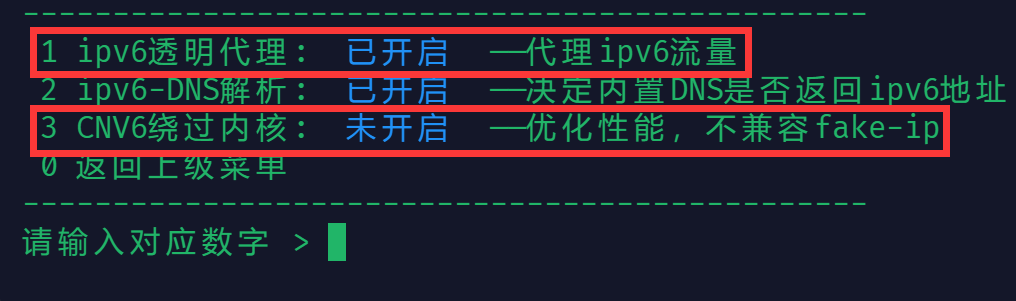
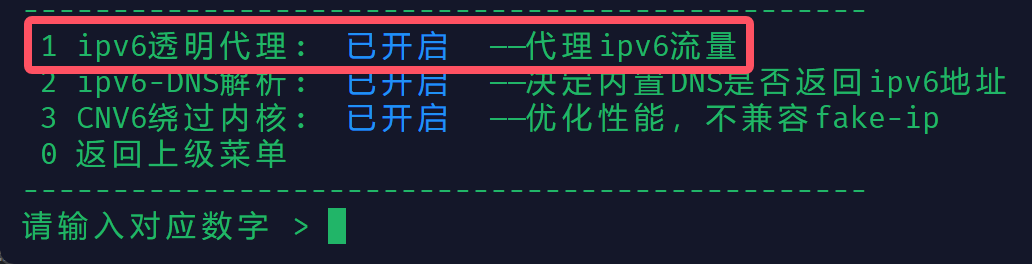
跟随 ShellCrash 新版默认开启绕过 cnip

Changed region(s): [[0.0, 0.0303, 1.0, 0.6364], [0.0, 0.6667, 0.8543, 0.9394], [0.0, 0.9697, 0.0305, 1.0]]

diff --git a/_posts/2024-08-21-share-shellcrashadguardhome-mihomo-ruleset.md b/_posts/2024-08-21-share-shellcrashadguardhome-mihomo-ruleset.md
@@ -277,16 +277,12 @@ dns:
 
 ## 五、 ShellCrash 设置
 1. 设置可参考《[ShellCrash 搭载 mihomo 内核的配置-ruleset 方案](https://proxy-tutorials.dustinwin.top/posts/toolsettings-shellcrash-mihomo-ruleset)》，此处只列举配置的不同之处
-2. 进入主菜单 → 2 内核功能设置，设置如下：  
-<img src="/assets/img/share/tproxy-mix-cnip.png" alt="ShellCrash 设置 1" width="60%" />
-
-3. 进入主菜单 → 2 内核功能设置 → 1 切换防火墙运行模式 → 9 ipv6 设置，开启 3 CNV6 绕过内核
-4. 进入主菜单 → 2 内核功能设置 → 2 切换 DNS 运行模式 → 4 DNS 进阶设置，设置如下：  
+2. 进入主菜单 → 2 内核功能设置 → 2 切换 DNS 运行模式 → 4 DNS 进阶设置，设置如下：  
 <img src="/assets/img/share/close-dns-null.png" alt="ShellCrash 设置 2" width="60%" />
 
-5. 进入主菜单 → 7 内核进阶设置，不要启用 4 启用域名嗅探（因 user.yaml 文件中已添加 `dns.sniffer` 配置项）
-6. 进入主菜单 → 7 内核进阶设置 → 5 自定义端口及秘钥，设置为 `9090`
-7. 进入主菜单 → 6 导入配置文件 → 2 在线获取完整配置文件，粘贴《[一](https://proxy-tutorials.dustinwin.top/posts/share-shellcrashadguardhome-mihomo-ruleset/#%E4%B8%80-%E7%94%9F%E6%88%90%E9%85%8D%E7%BD%AE%E6%96%87%E4%BB%B6-yaml-%E6%96%87%E4%BB%B6%E7%9B%B4%E9%93%BE)》中生成的配置文件 .yaml 文件直链，启动服务即可
+3. 进入主菜单 → 7 内核进阶设置，不要启用 4 启用域名嗅探（因 user.yaml 文件中已添加 `dns.sniffer` 配置项）
+4. 进入主菜单 → 7 内核进阶设置 → 5 自定义端口及秘钥，设置为 `9090`
+5. 进入主菜单 → 6 导入配置文件 → 2 在线获取完整配置文件，粘贴《[一](https://proxy-tutorials.dustinwin.top/posts/share-shellcrashadguardhome-mihomo-ruleset/#%E4%B8%80-%E7%94%9F%E6%88%90%E9%85%8D%E7%BD%AE%E6%96%87%E4%BB%B6-yaml-%E6%96%87%E4%BB%B6%E7%9B%B4%E9%93%BE)》中生成的配置文件 .yaml 文件直链，启动服务即可
 
 ## 六、 安装 AdGuard Home
 1. 连接 SSH 后执行如下命令：

diff --git a/_posts/2024-08-21-share-shellcrash-mihomo-geodata.md b/_posts/2024-08-21-share-shellcrash-mihomo-geodata.md
@@ -181,15 +181,12 @@ dns:
 
 ## 六、 设置部分
 1. 设置可参考《[ShellCrash 搭载 mihomo 内核的配置-geodata 方案](https://proxy-tutorials.dustinwin.top/posts/toolsettings-shellcrash-mihomo-geodata)》，此处只列举配置的不同之处
-2. 进入主菜单 → 2 内核功能设置，设置如下：  
-<img src="/assets/img/share/tproxy-mix-cnip.png" alt="设置部分 1" width="60%" />
-
-3. 进入主菜单 → 2 内核功能设置 → 2 切换 DNS 运行模式 → 4 DNS 进阶设置，设置如下：  
+2. 进入主菜单 → 2 内核功能设置 → 2 切换 DNS 运行模式 → 4 DNS 进阶设置，设置如下：  
 <img src="/assets/img/share/dns-null.png" alt="设置部分 2" width="60%" />
 
-4. 进入主菜单 → 7 内核进阶设置，不要启用 4 启用域名嗅探（因 user.yaml 文件中已添加 `dns.sniffer` 配置项）
-5. 进入主菜单 → 7 内核进阶设置 → 5 自定义端口及秘钥，设置为 `9090`
-6. 进入主菜单 → 6 导入配置文件 → 2 在线获取完整配置文件，粘贴《[一](https://proxy-tutorials.dustinwin.top/posts/share-shellcrash-mihomo-geodata/#%E4%B8%80-%E7%94%9F%E6%88%90%E9%85%8D%E7%BD%AE%E6%96%87%E4%BB%B6-yaml-%E6%96%87%E4%BB%B6%E7%9B%B4%E9%93%BE)》中生成的配置文件 .yaml 文件直链，启动服务即可
+3. 进入主菜单 → 7 内核进阶设置，不要启用 4 启用域名嗅探（因 user.yaml 文件中已添加 `dns.sniffer` 配置项）
+4. 进入主菜单 → 7 内核进阶设置 → 5 自定义端口及秘钥，设置为 `9090`
+5. 进入主菜单 → 6 导入配置文件 → 2 在线获取完整配置文件，粘贴《[一](https://proxy-tutorials.dustinwin.top/posts/share-shellcrash-mihomo-geodata/#%E4%B8%80-%E7%94%9F%E6%88%90%E9%85%8D%E7%BD%AE%E6%96%87%E4%BB%B6-yaml-%E6%96%87%E4%BB%B6%E7%9B%B4%E9%93%BE)》中生成的配置文件 .yaml 文件直链，启动服务即可
 
 ## 七、 访问 Dashboard 面板
 打开 <http://miwifi.com:9090/ui/> 后，“主机”输入 `192.168.31.1`，点击“提交”即可访问 Dashboard 面板  

diff --git a/_posts/2024-08-21-share-shellcrash-mihomo-ruleset.md b/_posts/2024-08-21-share-shellcrash-mihomo-ruleset.md
@@ -277,15 +277,12 @@ dns:
 
 ## 五、 设置部分
 1. 设置可参考《[ShellCrash 搭载 mihomo 内核的配置-ruleset 方案](https://proxy-tutorials.dustinwin.top/posts/toolsettings-shellcrash-mihomo-ruleset)》，此处只列举配置的不同之处
-2. 进入主菜单 → 2 内核功能设置，设置如下：  
-<img src="/assets/img/share/tproxy-mix-cnip.png" alt="设置部分 1" width="60%" />
-
-3. 进入主菜单 → 2 内核功能设置 → 2 切换 DNS 运行模式 → 4 DNS 进阶设置，设置如下：  
+2. 进入主菜单 → 2 内核功能设置 → 2 切换 DNS 运行模式 → 4 DNS 进阶设置，设置如下：  
 <img src="/assets/img/share/dns-null.png" alt="设置部分 2" width="60%" />
 
-4. 进入主菜单 → 7 内核进阶设置，不要启用 4 启用域名嗅探（因 user.yaml 文件中已添加 `dns.sniffer` 配置项）
-5. 进入主菜单 → 7 内核进阶设置 → 5 自定义端口及秘钥，设置为 `9090`
-6. 进入主菜单 → 6 导入配置文件 → 2 在线获取完整配置文件，粘贴《[一](https://proxy-tutorials.dustinwin.top/posts/share-shellcrash-mihomo-ruleset/#%E4%B8%80-%E7%94%9F%E6%88%90%E9%85%8D%E7%BD%AE%E6%96%87%E4%BB%B6-yaml-%E6%96%87%E4%BB%B6%E7%9B%B4%E9%93%BE)》中生成的配置文件 .yaml 文件直链，启动服务即可
+3. 进入主菜单 → 7 内核进阶设置，不要启用 4 启用域名嗅探（因 user.yaml 文件中已添加 `dns.sniffer` 配置项）
+4. 进入主菜单 → 7 内核进阶设置 → 5 自定义端口及秘钥，设置为 `9090`
+5. 进入主菜单 → 6 导入配置文件 → 2 在线获取完整配置文件，粘贴《[一](https://proxy-tutorials.dustinwin.top/posts/share-shellcrash-mihomo-ruleset/#%E4%B8%80-%E7%94%9F%E6%88%90%E9%85%8D%E7%BD%AE%E6%96%87%E4%BB%B6-yaml-%E6%96%87%E4%BB%B6%E7%9B%B4%E9%93%BE)》中生成的配置文件 .yaml 文件直链，启动服务即可
 
 ## 六、 访问 Dashboard 面板
 打开 <http://miwifi.com:9090/ui/> 后，“主机”输入 `192.168.31.1`，点击“提交”即可访问 Dashboard 面板  

diff --git a/_posts/2024-08-22-share-shellcrashadguardhome-singboxp-ruleset.md b/_posts/2024-08-22-share-shellcrashadguardhome-singboxp-ruleset.md
@@ -300,15 +300,11 @@ crash
 
 ## 七、 ShellCrash 设置
 1. 设置可参考《[ShellCrash 搭载 sing-boxp 内核的配置-ruleset 方案](https://proxy-tutorials.dustinwin.top/posts/toolsettings-shellcrash-singboxp-ruleset)》，此处只列举配置的不同之处
-2. 进入主菜单 → 2 内核功能设置，设置如下：  
-<img src="/assets/img/share/tproxy-mix-cnip.png" alt="设置部分 1" width="60%" />
-
-3. 进入主菜单 → 2 内核功能设置 → 1 切换防火墙运行模式 → 9 ipv6 设置，开启 3 CNV6 绕过内核
-4. 进入主菜单 → 2 内核功能设置 → 2 切换 DNS 运行模式 → 4 DNS 进阶设置，设置如下：  
+2. 进入主菜单 → 2 内核功能设置 → 2 切换 DNS 运行模式 → 4 DNS 进阶设置，设置如下：  
 <img src="/assets/img/share/close-dns-null.png" alt="设置部分 2" width="60%" />
 
-5. 进入主菜单 → 7 内核进阶设置 → 5 自定义端口及秘钥，设置为 `9090`
-6. 进入主菜单 → 6 导入配置文件 → 2 在线获取完整配置文件，粘贴《[一](https://proxy-tutorials.dustinwin.top/posts/share-shellcrashadguardhome-singboxp-ruleset/#%E4%B8%80-%E7%94%9F%E6%88%90%E9%85%8D%E7%BD%AE%E6%96%87%E4%BB%B6-json-%E6%96%87%E4%BB%B6%E7%9B%B4%E9%93%BE)》中生成的配置文件 .json 文件直链，启动服务即可
+3. 进入主菜单 → 7 内核进阶设置 → 5 自定义端口及秘钥，设置为 `9090`
+4. 进入主菜单 → 6 导入配置文件 → 2 在线获取完整配置文件，粘贴《[一](https://proxy-tutorials.dustinwin.top/posts/share-shellcrashadguardhome-singboxp-ruleset/#%E4%B8%80-%E7%94%9F%E6%88%90%E9%85%8D%E7%BD%AE%E6%96%87%E4%BB%B6-json-%E6%96%87%E4%BB%B6%E7%9B%B4%E9%93%BE)》中生成的配置文件 .json 文件直链，启动服务即可
 
 ## 八、 安装 AdGuard Home
 1. 连接 SSH 后执行如下命令：

diff --git a/_posts/2024-08-22-share-shellcrash-singboxp-geodata.md b/_posts/2024-08-22-share-shellcrash-singboxp-geodata.md
@@ -219,14 +219,11 @@ curl -o $CRASHDIR/geoip.db -L https://cdn.jsdelivr.net/gh/DustinWin/ruleset_geod
 
 ## 八、 设置部分
 1. 设置可参考《[ShellCrash 搭载 sing-boxp 内核的配置-geodata 方案](https://proxy-tutorials.dustinwin.top/posts/toolsettings-shellcrash-singboxp-geodata)》，此处只列举配置的不同之处
-2. 进入主菜单 → 2 内核功能设置，设置如下：  
-<img src="/assets/img/share/tproxy-mix-cnip.png" alt="设置部分 1" width="60%" />
-
-3. 返回到 2 切换 DNS 运行模式，进入 4 DNS 进阶设置，设置如下：  
+2. 返回到 2 切换 DNS 运行模式，进入 4 DNS 进阶设置，设置如下：  
 <img src="/assets/img/share/dns-null.png" alt="设置部分 2" width="60%" />
 
-4. 进入主菜单 → 7 内核进阶设置 → 5 自定义端口及秘钥，设置为 `9090`
-5. 进入主菜单 → 6 导入配置文件 → 2 在线获取完整配置文件，粘贴《[一](https://proxy-tutorials.dustinwin.top/posts/share-shellcrash-singboxp-geodata/#%E4%B8%80-%E7%94%9F%E6%88%90%E9%85%8D%E7%BD%AE%E6%96%87%E4%BB%B6-json-%E6%96%87%E4%BB%B6%E7%9B%B4%E9%93%BE)》中生成的配置文件 .json 文件直链，启动服务即可
+3. 进入主菜单 → 7 内核进阶设置 → 5 自定义端口及秘钥，设置为 `9090`
+4. 进入主菜单 → 6 导入配置文件 → 2 在线获取完整配置文件，粘贴《[一](https://proxy-tutorials.dustinwin.top/posts/share-shellcrash-singboxp-geodata/#%E4%B8%80-%E7%94%9F%E6%88%90%E9%85%8D%E7%BD%AE%E6%96%87%E4%BB%B6-json-%E6%96%87%E4%BB%B6%E7%9B%B4%E9%93%BE)》中生成的配置文件 .json 文件直链，启动服务即可
 
 ## 九、 访问 Dashboard 面板
 打开 <http://miwifi.com:9090/ui/> 后，“主机”输入 `192.168.31.1`，点击“提交”即可访问 Dashboard 面板  

diff --git a/_posts/2024-08-22-share-shellcrash-singboxp-ruleset.md b/_posts/2024-08-22-share-shellcrash-singboxp-ruleset.md
@@ -302,14 +302,11 @@ crash
 
 ## 七、 设置部分
 1. 设置可参考《[ShellCrash 搭载 sing-boxp 内核的配置-ruleset 方案](https://proxy-tutorials.dustinwin.top/posts/toolsettings-shellcrash-singboxp-ruleset)》，此处只列举配置的不同之处
-2. 进入主菜单 → 2 内核功能设置，设置如下：  
-<img src="/assets/img/share/tproxy-mix-cnip.png" alt="设置部分 1" width="60%" />
-
-3. 返回到 2 切换 DNS 运行模式，进入 4 DNS 进阶设置，设置如下：  
+2. 返回到 2 切换 DNS 运行模式，进入 4 DNS 进阶设置，设置如下：  
 <img src="/assets/img/share/dns-null.png" alt="设置部分 2" width="60%" />
 
-4. 进入主菜单 → 7 内核进阶设置 → 5 自定义端口及秘钥，设置为 `9090`
-5. 进入主菜单 → 6 导入配置文件 → 2 在线获取完整配置文件，粘贴《[一](https://proxy-tutorials.dustinwin.top/posts/share-shellcrash-singboxp-ruleset/#%E4%B8%80-%E7%94%9F%E6%88%90%E9%85%8D%E7%BD%AE%E6%96%87%E4%BB%B6-json-%E6%96%87%E4%BB%B6%E7%9B%B4%E9%93%BE)》中生成的配置文件 .json 文件直链，启动服务即可
+3. 进入主菜单 → 7 内核进阶设置 → 5 自定义端口及秘钥，设置为 `9090`
+4. 进入主菜单 → 6 导入配置文件 → 2 在线获取完整配置文件，粘贴《[一](https://proxy-tutorials.dustinwin.top/posts/share-shellcrash-singboxp-ruleset/#%E4%B8%80-%E7%94%9F%E6%88%90%E9%85%8D%E7%BD%AE%E6%96%87%E4%BB%B6-json-%E6%96%87%E4%BB%B6%E7%9B%B4%E9%93%BE)》中生成的配置文件 .json 文件直链，启动服务即可
 
 ## 八、 访问 Dashboard 面板
 打开 <http://miwifi.com:9090/ui/> 后，“主机”输入 `192.168.31.1`，点击“提交”即可访问 Dashboard 面板  

diff --git a/_posts/2024-08-21-toolsettings-shellcrash-mihomo-geodata.md b/_posts/2024-08-21-toolsettings-shellcrash-mihomo-geodata.md
@@ -60,7 +60,7 @@ curl -o $CRASHDIR/Country.mmdb -L https://cdn.jsdelivr.net/gh/DustinWin/ruleset_
 3. 进入主菜单 → 9 更新/卸载 → 7 切换安装源及安装版本，选择 b 切换至公测版 → 1 Jsdelivr_CDN源（推荐）
 4. 进入主菜单 → 9 更新/卸载 → 4 安装本地 Dashboard 面板，选择 3 安装 MetaXD 面板（也可跳过此步，直接使用《[五](https://proxy-tutorials.dustinwin.top/posts/toolsettings-shellcrash-mihomo-geodata/#%E4%BA%94-%E5%9C%A8%E7%BA%BF-dashboard-%E9%9D%A2%E6%9D%BF)》中的在线 Dashboard 面板）
 5. 进入主菜单 → 2 内核功能设置，设置如下（有“Tproxy 模式”就选“Tproxy 模式”，否则推荐选“混合模式”，宽带在 300M 内推荐选 Tun 模式）：  
-<img src="/assets/img/tools/tproxy-mix.png" alt="设置部分 1" width="60%" />
+<img src="/assets/img/pin/tproxy-mix.png" alt="设置部分 1" width="60%" />
 
 6. 进入主菜单 → 4 内核启动设置，选择 1 允许 ShellCrash 开机启动（若重启路由器后服务没有自动运行，可“设置自启延时”为 `30` 秒）
 7. 进入主菜单 → 5 配置自动任务 → 1 添加自动任务，可以看到末尾就有《[三](https://proxy-tutorials.dustinwin.top/posts/toolsettings-shellcrash-mihomo-geodata/#%E4%B8%89-%E6%B7%BB%E5%8A%A0%E5%AE%9A%E6%97%B6%E4%BB%BB%E5%8A%A1)》中添加的定时任务，输入对应的数字并回车后可设置执行条件

diff --git a/_posts/2024-08-21-toolsettings-shellcrash-mihomo-ruleset.md b/_posts/2024-08-21-toolsettings-shellcrash-mihomo-ruleset.md
@@ -51,7 +51,7 @@ curl -L https://ghfast.top/https://github.com/DustinWin/proxy-tools/releases/dow
 3. 进入主菜单 → 9 更新/卸载 → 7 切换安装源及安装版本，选择 b 切换至公测版 → 1 Jsdelivr_CDN源（推荐）
 4. 进入主菜单 → 9 更新/卸载 → 4 安装本地 Dashboard 面板，选择 3 安装 MetaXD 面板（也可跳过此步，直接使用《[四](https://proxy-tutorials.dustinwin.top/posts/toolsettings-shellcrash-mihomo-ruleset/#%E5%9B%9B-%E5%9C%A8%E7%BA%BF-dashboard-%E9%9D%A2%E6%9D%BF)》中的在线 Dashboard 面板）
 5. 进入主菜单 → 2 内核功能设置，设置如下（有“Tproxy 模式”就选“Tproxy 模式”，否则推荐选“混合模式”，宽带在 300M 内推荐选 Tun 模式）：  
-<img src="/assets/img/tools/tproxy-mix.png" alt="设置部分 1" width="60%" />
+<img src="/assets/img/pin/tproxy-mix.png" alt="设置部分 1" width="60%" />
 
 6. 进入主菜单 → 4 内核启动设置，选择 1 允许 ShellCrash 开机启动（若重启路由器后服务没有自动运行，可“设置自启延时”为 `30` 秒）
 7. 进入主菜单 → 5 配置自动任务 → 1 添加自动任务，可以看到末尾就有《[二](https://proxy-tutorials.dustinwin.top/posts/toolsettings-shellcrash-mihomo-ruleset/#%E4%BA%8C-%E6%B7%BB%E5%8A%A0%E5%AE%9A%E6%97%B6%E4%BB%BB%E5%8A%A1)》中添加的定时任务，输入对应的数字并回车后可设置执行条件

diff --git a/_posts/2024-08-21-toolsettings-shellcrash-singboxp-geodata.md b/_posts/2024-08-21-toolsettings-shellcrash-singboxp-geodata.md
@@ -60,7 +60,7 @@ curl -o $CRASHDIR/geoip.db -L https://cdn.jsdelivr.net/gh/DustinWin/ruleset_geod
 3. 进入主菜单 → 9 更新/卸载 → 7 切换安装源及安装版本，选择 b 切换至公测版 → 1 Jsdelivr_CDN源（推荐）
 4. 进入主菜单 → 9 更新/卸载 → 4 安装本地 Dashboard 面板，选择 3 安装 MetaXD 面板（也可跳过此步，使用《[五](https://proxy-tutorials.dustinwin.top/posts/toolsettings-shellcrash-singboxp-geodata/#%E4%BA%94-%E5%9C%A8%E7%BA%BF-dashboard-%E9%9D%A2%E6%9D%BF)》中的在线 Dashboard 面板）
 5. 进入主菜单 → 2 内核功能设置，设置如下（有“Tproxy 模式”就选“Tproxy 模式”，否则推荐选“混合模式”，宽带在 300M 内推荐选 Tun 模式）：  
-<img src="/assets/img/tools/tproxy-mix.png" alt="设置部分 1" width="60%" />
+<img src="/assets/img/pin/tproxy-mix.png" alt="设置部分 1" width="60%" />
 
 6. 进入主菜单 → 4 内核启动设置，选择 1 允许 ShellCrash 开机启动（若重启路由器后服务没有自动运行，可“设置自启延时”为 `30` 秒）
 7. 进入主菜单 → 5 配置自动任务 → 1 添加自动任务，可以看到末尾就有《[三](https://proxy-tutorials.dustinwin.top/posts/toolsettings-shellcrash-singboxp-geodata/#%E4%B8%89-%E6%B7%BB%E5%8A%A0%E5%AE%9A%E6%97%B6%E4%BB%BB%E5%8A%A1)》中添加的定时任务，输入对应的数字并回车后可设置执行条件 

diff --git a/_posts/2024-08-22-toolsettings-shellcrash-singboxp-ruleset.md b/_posts/2024-08-22-toolsettings-shellcrash-singboxp-ruleset.md
@@ -52,7 +52,7 @@ curl -L https://ghfast.top/https://github.com/DustinWin/proxy-tools/releases/dow
 4. 进入主菜单 → 9 更新/卸载 → 4 安装本地 Dashboard 面板，选择 3 安装 MetaXD 面板（也可跳过此步，使用《[四](https://proxy-tutorials.dustinwin.top/posts/toolsettings-shellcrash-singboxp-ruleset/#%E5%9B%9B-%E5%9C%A8%E7%BA%BF-dashboard-%E9%9D%A2%E6%9D%BF)》中的在线 Dashboard 面板）
 5. 进入主菜单 → 2 内核功能设置，设置如下：
 - 注：有“Tproxy 模式”就选“Tproxy 模式”，否则推荐选“混合模式”，宽带在 300M 内推荐选 Tun 模式  
-<img src="/assets/img/tools/tproxy-mix.png" alt="设置部分 1" width="60%" />
+<img src="/assets/img/pin/tproxy-mix.png" alt="设置部分 1" width="60%" />
 
 6. 进入主菜单 → 4 内核启动设置，选择 1 允许 ShellCrash 开机启动（若重启路由器后服务没有自动运行，可“设置自启延时”为 `30` 秒）
 7. 进入主菜单 → 5 配置自动任务 → 1 添加自动任务，可以看到末尾就有《[二](https://proxy-tutorials.dustinwin.top/posts/toolsettings-shellcrash-singboxp-ruleset/#%E4%BA%8C-%E6%B7%BB%E5%8A%A0%E5%AE%9A%E6%97%B6%E4%BB%BB%E5%8A%A1)》中添加的定时任务，输入对应的数字并回车后可设置执行条件

diff --git a/_posts/2024-08-21-pin-shellcrashadguardhome-mihomo.md b/_posts/2024-08-21-pin-shellcrashadguardhome-mihomo.md
@@ -275,7 +275,7 @@ echo -e '12345678\n12345678' | passwd root
   - ➐ 内核加载完成后根据需要是否保留相关数据库文件（此处选择 `0`）
 - ③ 模式设置
   - ➊ 进入主菜单 → 2 内核功能设置 → 1 切换防火墙运行模式，选择 3 Tproxy 模式（有“Tproxy 模式”就选“Tproxy 模式”，否则推荐选“混合模式”，宽带在 300M 内推荐 Tun 模式）
-  - ➋ 进入 1 切换防火墙运行模式 → 9 ipv6 设置，若机场节点支持 IPv6，可开启 1 ipv6 透明代理；根据自身需要开启 3 CNV6 绕过内核  
+  - ➋ 进入 1 切换防火墙运行模式 → 9 ipv6 设置，若机场节点不支持 IPv6，可关闭 1 ipv6 透明代理  
     <img src="/assets/img/pin/ipv6-setting.png" alt="ShellCrash 配置 2" width="60%" />
 
   - ➌ 进入 2 切换 DNS 运行模式，选择 3 mix 混合模式

diff --git a/_posts/2024-08-21-pin-shellcrashadguardhome-singboxp.md b/_posts/2024-08-21-pin-shellcrashadguardhome-singboxp.md
@@ -281,7 +281,7 @@ echo -e '12345678\n12345678' | passwd root
   - ➐ 内核加载完成后根据需要是否保留相关数据库文件（此处选择 `0`）
 - ③ 模式设置
   - ➊ 进入主菜单 → 2 内核功能设置 → 1 切换防火墙运行模式，选择 3 Tproxy 模式（有“Tproxy 模式”就选“Tproxy 模式”，否则推荐选“混合模式”，宽带在 300M 内推荐 Tun 模式）
-  - ➋ 进入 1 切换防火墙运行模式 → 9 ipv6 设置，若机场节点支持 IPv6，可开启 1 ipv6 透明代理；根据自身需要开启 3 CNV6 绕过内核  
+  - ➋ 进入 1 切换防火墙运行模式 → 9 ipv6 设置，若机场节点不支持 IPv6，可关闭 1 ipv6 透明代理  
     <img src="/assets/img/pin/ipv6-setting.png" alt="ShellCrash 配置 2" width="60%" />
 
   - ➌ 进入 2 切换 DNS 运行模式，选择 3 mix 混合模式
